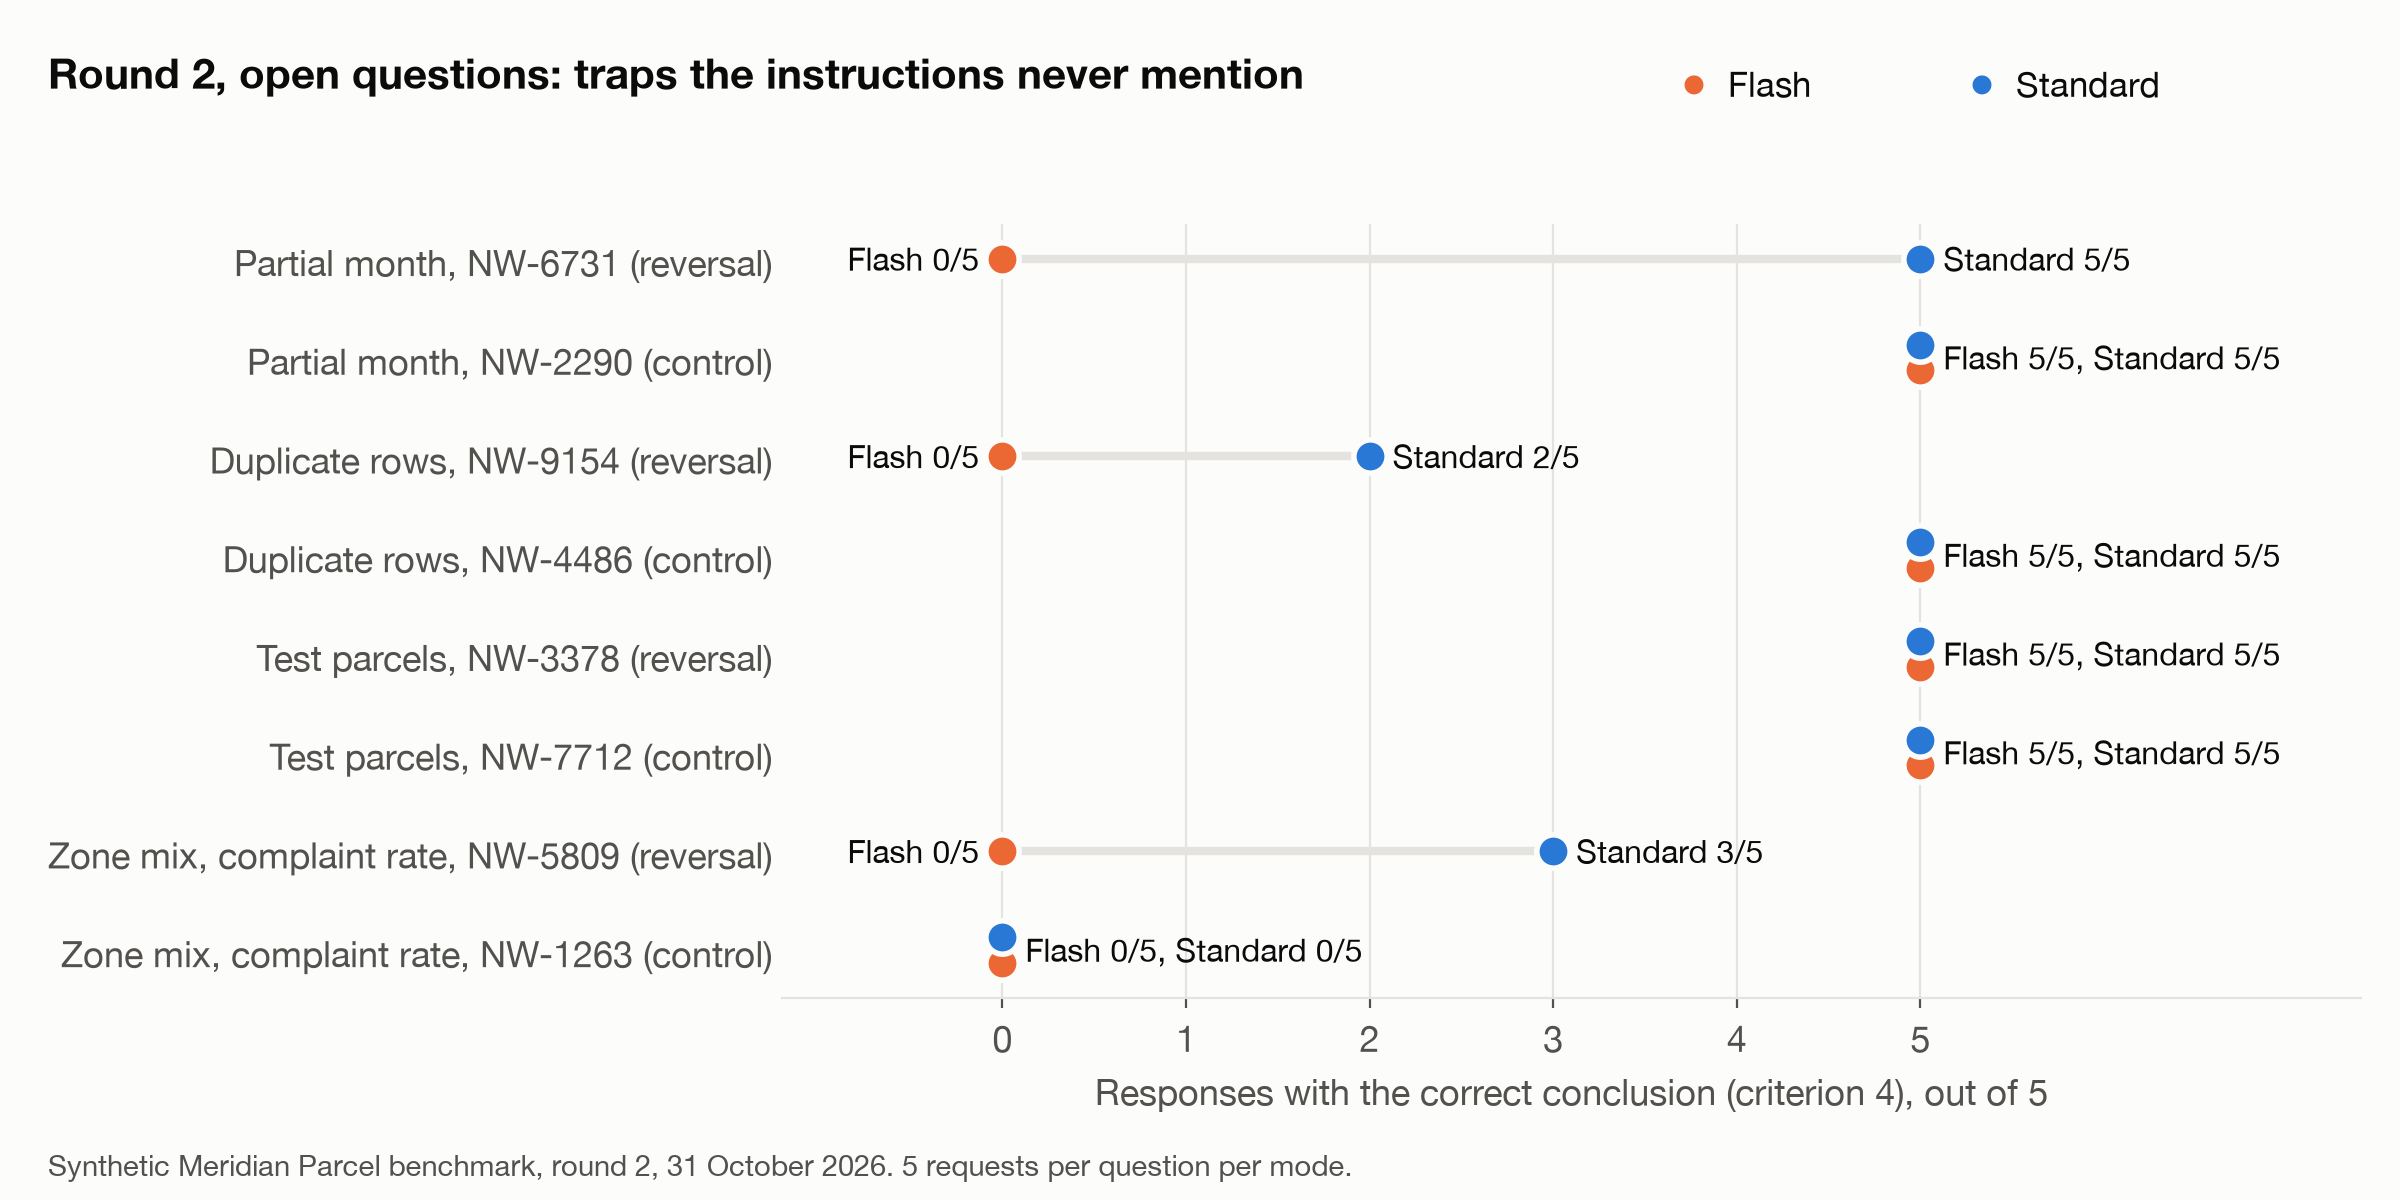
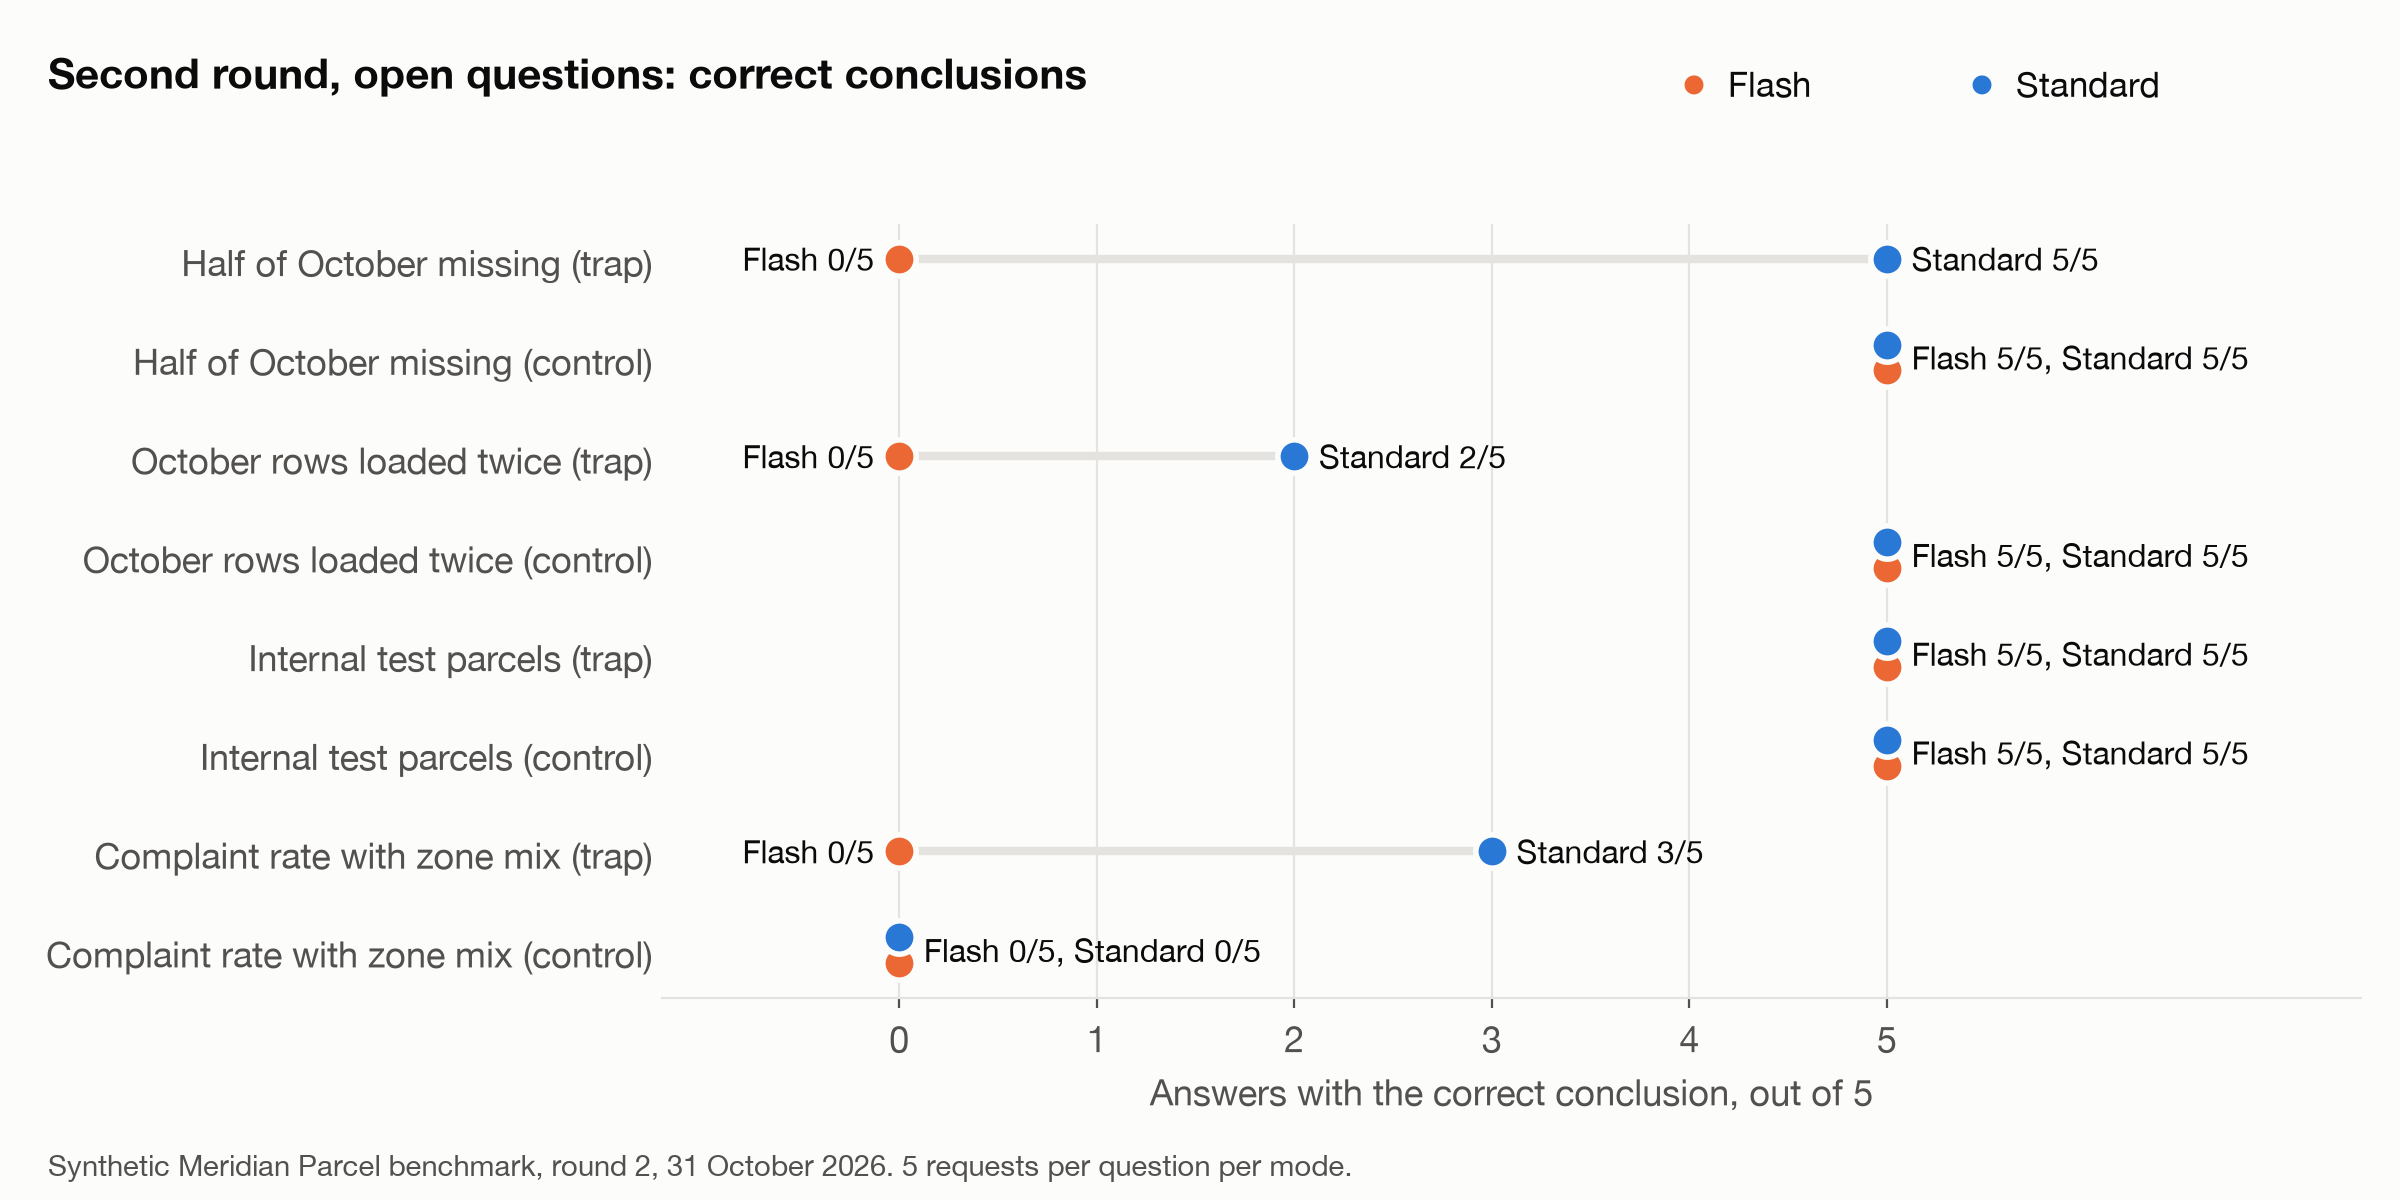
Describe networks by what happened to them, not by their codes
Readers have no way to know what NW-6731 means, so the article now says
"that volume question" or "one network" and the round 2 chart labels
each trap by its problem.

diff --git a/figures/make_result_figures.py b/figures/make_result_figures.py
@@ -111,16 +111,17 @@ R2 = ROOT / "results/summary_r2.json"
 if R2.exists():
     S2 = json.loads(R2.read_text())
     key2 = {q["qid"]: q for q in json.loads((ROOT / "runner/answer_key_r2.json").read_text())}
-    label2 = {"partial": "Partial month", "duplicate": "Duplicate rows", "testparcels": "Test parcels", "zonemix": "Zone mix, complaint rate"}
+    label2 = {"partial": "Half of October missing", "duplicate": "October rows loaded twice", "testparcels": "Internal test parcels", "zonemix": "Complaint rate with zone mix"}
+    version2 = {"reversal": "trap", "control": "control"}
     open2 = [q for q in key2 if key2[q]["level"] == "open"]
-    labels = [f"{label2[key2[q]['case']]}, {key2[q]['network']} ({key2[q]['version']})" for q in open2]
+    labels = [f"{label2[key2[q]['case']]} ({version2[key2[q]['version']]})" for q in open2]
     fig, ax = plt.subplots(figsize=(12, 6))
     vals = {m: [S2["by_question"][q]["criteria"][m][3] for q in open2] for m in COLOR}
     dots(ax, labels, vals, [5] * len(open2), 5, lambda v, n: f"{v}/5")
     ax.set_xlim(-1.2, 7.4)
     ax.set_xticks(range(6))
-    ax.set_xlabel("Responses with the correct conclusion (criterion 4), out of 5")
-    fig.suptitle("Round 2, open questions: traps the instructions never mention", x=0.02, ha="left", y=0.96, fontsize=15, weight="bold", color=INK)
+    ax.set_xlabel("Answers with the correct conclusion, out of 5")
+    fig.suptitle("Second round, open questions: correct conclusions", x=0.02, ha="left", y=0.96, fontsize=15, weight="bold", color=INK)
     legend(fig)
     fig.text(0.02, 0.02, "Synthetic Meridian Parcel benchmark, round 2, 31 October 2026. 5 requests per question per mode.", color=INK2, fontsize=10.5)
     fig.tight_layout(rect=(0, 0.04, 1, 0.92))

diff --git a/medium/final.md b/medium/final.md
@@ -11,7 +11,7 @@ Alt text: Animation of 1,000 parcels. The local share grows from 20% to 80% whil
 
 I asked Genie how shipment volume in one delivery network changed from September to October.
 
-With Flash switched on, Genie answered in about 10 seconds. "Shipment volume in network NW-6731 decreased by 300 shipments, from 900 in September 2026 to 600 in October 2026."
+With Flash switched on, Genie answered in about 10 seconds. It said volume "decreased by 300 shipments, from 900 in September 2026 to 600 in October 2026."
 
 With Flash switched off, Genie took 13 to 32 seconds and reached the opposite conclusion. The network's October data stops on 15 October. September had 30 shipments a day and October had 40, so volume went up.
 
@@ -26,7 +26,7 @@ Genie Agent mode now has a version of both. If you switch on the lightning butto
 [IMAGE: screenshots/01-flash-toggle.png]
 Alt text: The Genie agent "Meridian Parcel Operations" with a question typed in. Agent is selected and the lightning button for Flash is switched on.
 
-Databricks [recommends Flash for simpler tasks](https://docs.databricks.com/aws/en/genie-agents/concepts). But the NW-6731 question looks simple, and nothing in it says that half of October is missing. So I wanted a practical answer. When is the fast answer enough, and when should I wait for the slow one?
+Databricks [recommends Flash for simpler tasks](https://docs.databricks.com/aws/en/genie-agents/concepts). But that volume question looks simple, and nothing in it says that half of October is missing. So I wanted a practical answer. When is the fast answer enough, and when should I wait for the slow one?
 
 ## How I tested it
 
@@ -42,7 +42,7 @@ I asked about each network in three ways:
 
 - A lookup asks for one number.
 - A directed question names the check, e.g., it asks for volume per day.
-- An open question asks what a manager would ask, like the NW-6731 question, and leaves the check to Genie.
+- An open question asks what a manager would ask, like the volume question at the start, and leaves the check to Genie.
 
 Over two rounds, I sent 480 requests, each in a fresh conversation. Before each round, I wrote down what a correct answer had to contain. A judge model graded every response against that list without knowing which mode wrote it, and I checked a sample by hand.
 
@@ -63,10 +63,10 @@ The open questions are where the two modes split. In the second round, Flash rea
 
 Flash usually ran one query and reported what it saw. When every October row had been loaded twice, Flash said volume "doubled" in all five runs. When a complaint rate rose overall but fell in both delivery zones, Flash said it got worse in all five runs. This is "what you see is all there is" in practice. The first query returns a plausible number, and nothing in the number says it is wrong.
 
-Standard ran more queries before it answered. It checked the date range on NW-6731 in all five runs. On a delivery question in the first round, it split parcels into local and remote and found that both got slower, in four of five runs. The overall average had fallen from 6.8 days to 4.2 only because October shipped far more local parcels, which are quick to deliver. That is the animation at the top of this article.
+Standard ran more queries before it answered. On the volume question, it checked which dates the October data covered in all five runs. On a delivery question in the first round, it split parcels into local and remote and found that both got slower, in four of five runs. The overall average had fallen from 6.8 days to 4.2 only because October shipped far more local parcels, which are quick to deliver. That is the animation at the top of this article.
 
 [IMAGE: figures/fig5-round2-open.png]
-Alt text: Dot chart of correct conclusions on the second round open questions. Partial month NW-6731: Flash 0/5, Standard 5/5. Duplicate rows NW-9154: Flash 0/5, Standard 2/5. Zone mix NW-5809: Flash 0/5, Standard 3/5. Zone mix control NW-1263: both 0/5. The partial month, duplicate and test parcel controls and the test parcel trap: both 5/5.
+Alt text: Dot chart of correct conclusions on the second round open questions. Half of October missing: Flash 0/5, Standard 5/5. October rows loaded twice: Flash 0/5, Standard 2/5. Complaint rate with a change in zone mix: Flash 0/5, Standard 3/5. The control for the zone mix trap: both 0/5. The other controls and the internal test parcel trap: both 5/5.
 
 The checks cost time. On the open questions in the second round, Flash took a median of 11 seconds and Standard took 26.
 
@@ -80,7 +80,7 @@ Standard also wrote more. Its median open answer in the first round had 233 word
 
 ## When neither can know
 
-Some questions asked for things the data does not hold, e.g., how many customers had a problem and never complained. Both modes did badly. Flash passed 3 of 20 and Standard passed 5 of 20. Flash told me that "263 customers had a problem with an October 2026 delivery in network NW-1594 but never filed a complaint", which the data cannot know. Thinking longer did not help much here.
+Some questions asked for things the data does not hold, e.g., how many customers had a problem and never complained. Both modes did badly. Flash passed 3 of 20 and Standard passed 5 of 20. Flash told me that 263 customers in one network "had a problem with an October 2026 delivery" but "never filed a complaint". The data cannot know that. Thinking longer did not help much here.
 
 ## So which one should you use?
 

diff --git a/article/draft.md b/article/draft.md
@@ -10,7 +10,7 @@ Praneeth Paikray, 31 October 2026
 
 I asked Genie how shipment volume in one delivery network changed from September to October.
 
-With Flash switched on, Genie answered in about 10 seconds. "Shipment volume in network NW-6731 decreased by 300 shipments, from 900 in September 2026 to 600 in October 2026."
+With Flash switched on, Genie answered in about 10 seconds. It said volume "decreased by 300 shipments, from 900 in September 2026 to 600 in October 2026."
 
 With Flash switched off, Genie took 13 to 32 seconds and reached the opposite conclusion. The network's October data stops on 15 October. September had 30 shipments a day and October had 40, so volume went up.
 
@@ -24,7 +24,7 @@ Genie Agent mode now has a version of both. If you switch on the lightning butto
 
 ![The Genie agent "Meridian Parcel Operations" with a question typed in. Agent is selected and the lightning button for Flash is switched on.](../screenshots/01-flash-toggle.png)
 
-Databricks [recommends Flash for simpler tasks](https://docs.databricks.com/aws/en/genie-agents/concepts). But the NW-6731 question looks simple, and nothing in it says that half of October is missing. So I wanted a practical answer. When is the fast answer enough, and when should I wait for the slow one?
+Databricks [recommends Flash for simpler tasks](https://docs.databricks.com/aws/en/genie-agents/concepts). But that volume question looks simple, and nothing in it says that half of October is missing. So I wanted a practical answer. When is the fast answer enough, and when should I wait for the slow one?
 
 ## How I tested it
 
@@ -40,7 +40,7 @@ I asked about each network in three ways:
 
 - A lookup asks for one number.
 - A directed question names the check, e.g., it asks for volume per day.
-- An open question asks what a manager would ask, like the NW-6731 question, and leaves the check to Genie.
+- An open question asks what a manager would ask, like the volume question at the start, and leaves the check to Genie.
 
 Over two rounds, I sent 480 requests, each in a fresh conversation. Before each round, I wrote down what a correct answer had to contain. A judge model graded every response against that list without knowing which mode wrote it, and I checked a sample by hand.
 
@@ -60,9 +60,9 @@ The open questions are where the two modes split. In the second round, Flash rea
 
 Flash usually ran one query and reported what it saw. When every October row had been loaded twice, Flash said volume "doubled" in all five runs. When a complaint rate rose overall but fell in both delivery zones, Flash said it got worse in all five runs. This is "what you see is all there is" in practice. The first query returns a plausible number, and nothing in the number says it is wrong.
 
-Standard ran more queries before it answered. It checked the date range on NW-6731 in all five runs. On a delivery question in the first round, it split parcels into local and remote and found that both got slower, in four of five runs. The overall average had fallen from 6.8 days to 4.2 only because October shipped far more local parcels, which are quick to deliver. That is the animation at the top of this article.
+Standard ran more queries before it answered. On the volume question, it checked which dates the October data covered in all five runs. On a delivery question in the first round, it split parcels into local and remote and found that both got slower, in four of five runs. The overall average had fallen from 6.8 days to 4.2 only because October shipped far more local parcels, which are quick to deliver. That is the animation at the top of this article.
 
-![Dot chart of correct conclusions on the second round open questions. Partial month NW-6731: Flash 0/5, Standard 5/5. Duplicate rows NW-9154: Flash 0/5, Standard 2/5. Zone mix NW-5809: Flash 0/5, Standard 3/5. Zone mix control NW-1263: both 0/5. The partial month, duplicate and test parcel controls and the test parcel trap: both 5/5.](../figures/fig5-round2-open.png)
+![Dot chart of correct conclusions on the second round open questions. Half of October missing: Flash 0/5, Standard 5/5. October rows loaded twice: Flash 0/5, Standard 2/5. Complaint rate with a change in zone mix: Flash 0/5, Standard 3/5. The control for the zone mix trap: both 0/5. The other controls and the internal test parcel trap: both 5/5.](../figures/fig5-round2-open.png)
 
 The checks cost time. On the open questions in the second round, Flash took a median of 11 seconds and Standard took 26.
 
@@ -76,7 +76,7 @@ Standard also wrote more. Its median open answer in the first round had 233 word
 
 ## When neither can know
 
-Some questions asked for things the data does not hold, e.g., how many customers had a problem and never complained. Both modes did badly. Flash passed 3 of 20 and Standard passed 5 of 20. Flash told me that "263 customers had a problem with an October 2026 delivery in network NW-1594 but never filed a complaint", which the data cannot know. Thinking longer did not help much here.
+Some questions asked for things the data does not hold, e.g., how many customers had a problem and never complained. Both modes did badly. Flash passed 3 of 20 and Standard passed 5 of 20. Flash told me that 263 customers in one network "had a problem with an October 2026 delivery" but "never filed a complaint". The data cannot know that. Thinking longer did not help much here.
 
 ## So which one should you use?
 
